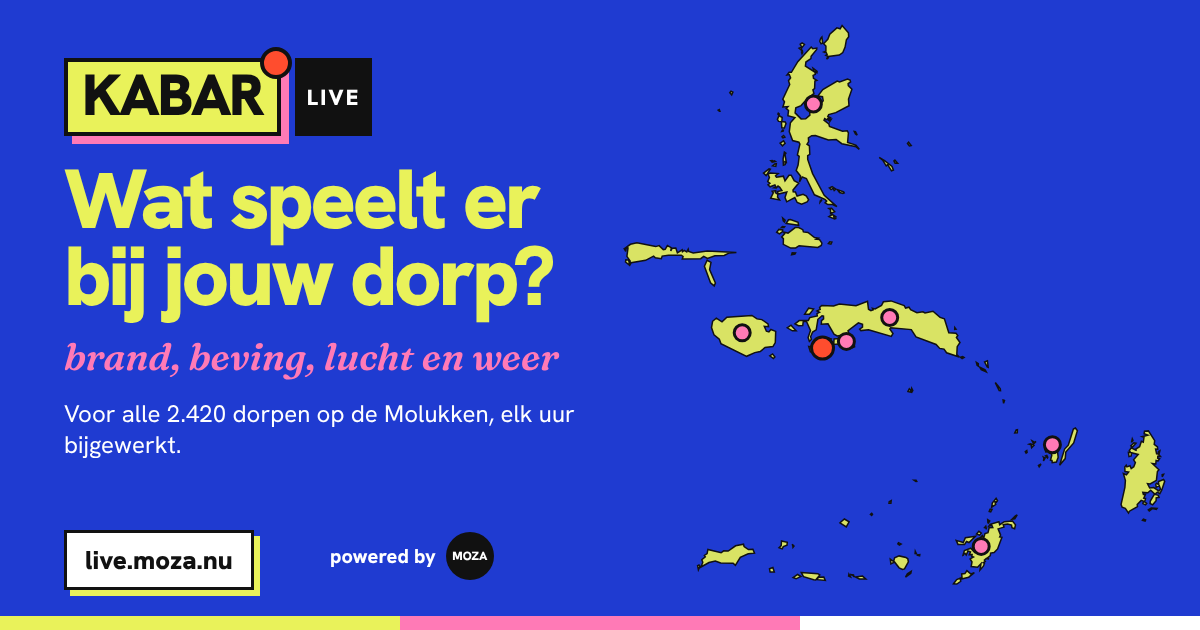
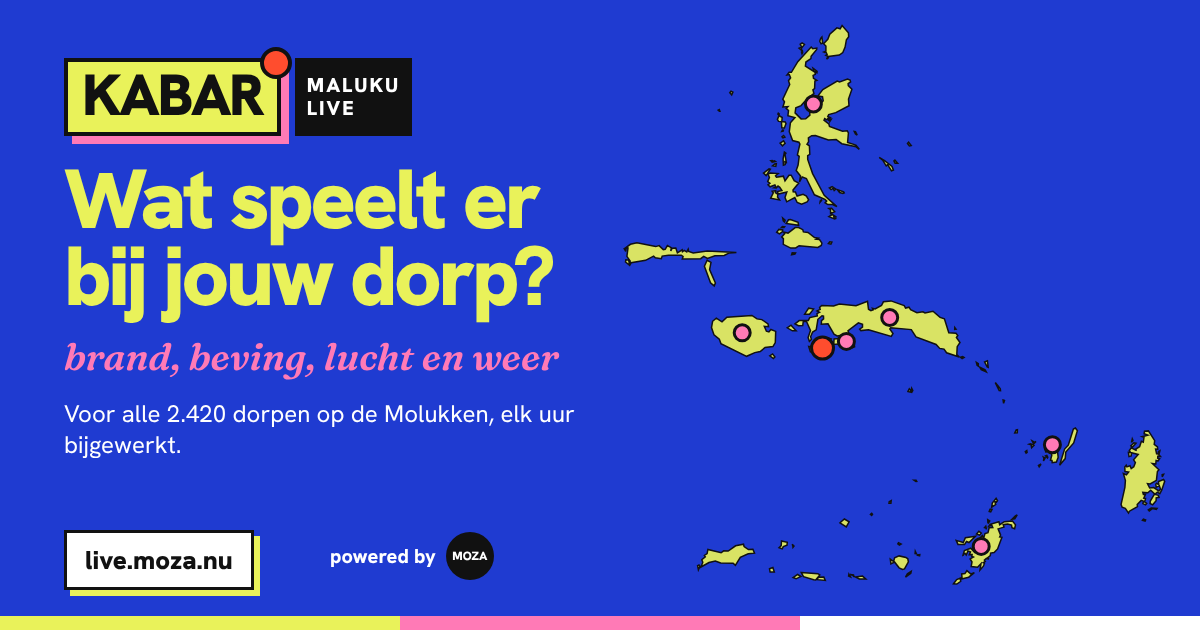
Naam wordt Kabar Maluku Live
Claude-Session: https://claude.ai/code/session_01QfAXNcrF4TZuJAZGuuJHpj

Changed region(s): [[0.2467, 0.0905, 0.37, 0.2413]]

diff --git a/dorp/static/dorp.css b/dorp/static/dorp.css
@@ -86,7 +86,7 @@ h2{margin:0;font-size:26px;line-height:1.15;font-weight:900;letter-spacing:-.02e
 .merk{display:flex;align-items:stretch;text-decoration:none}
 .merk .kb{position:relative;padding:3px 9px 5px;background:var(--geel);border:2px solid #111;box-shadow:3px 3px 0 var(--blauw);font-size:22px;line-height:1;font-weight:900;letter-spacing:-.04em;color:#111}
 .merk .kb i{position:absolute;top:-7px;right:-7px;width:12px;height:12px;border-radius:50%;background:var(--rood);border:2px solid #111}
-.merk .lv{display:inline-flex;align-items:center;margin-left:7px;padding:0 7px;background:#111;color:#fff;font-size:11px;font-weight:900;letter-spacing:.1em}
+.merk .lv{display:inline-flex;align-items:center;margin-left:7px;padding:2px 7px;background:#111;color:#fff;font-size:10px;line-height:1.15;font-weight:900;letter-spacing:.1em}
 @media (prefers-color-scheme:dark){.merk .kb{border-color:#ECECF1}.merk .lv{background:#ECECF1;color:#111}}
 .voet .pw{display:flex;align-items:center;gap:10px;font-weight:800}
 .voet .mz{width:40px;height:40px;border-radius:50%;background:#fff;color:#111!important;display:inline-flex;align-items:center;justify-content:center;font-size:10px;font-weight:900;text-decoration:none;letter-spacing:-.02em}

diff --git a/dorp/bouw.py b/dorp/bouw.py
@@ -351,7 +351,7 @@ def pagina(titel, omschrijving, pad, body, extra_head=''):
 <meta property="og:title" content="{e(titel)}">
 <meta property="og:description" content="{e(omschrijving)}">
 <meta property="og:url" content="{SITE}{pad}">
-<meta property="og:site_name" content="Kabar Live">
+<meta property="og:site_name" content="Kabar Maluku Live">
 <meta property="og:type" content="website">
 <meta property="og:image" content="{SITE}/og.png">
 <meta property="og:image:width" content="1200"><meta property="og:image:height" content="630">
@@ -365,9 +365,9 @@ def pagina(titel, omschrijving, pad, body, extra_head=''):
 {extra_head}{PLAUSIBLE}
 </head>
 <body>
-<header class="kop"><a class="merk" href="/" aria-label="Kabar Live, naar de startpagina"><span class="kb">KABAR<i></i></span><span class="lv">LIVE</span></a><a class="knop" href="/">{ICON_ZOEK}Ander dorp</a></header>
+<header class="kop"><a class="merk" href="/" aria-label="Kabar Maluku Live, naar de startpagina"><span class="kb">KABAR<i></i></span><span class="lv">MALUKU<br>LIVE</span></a><a class="knop" href="/">{ICON_ZOEK}Ander dorp</a></header>
 {body}
-<footer class="voet"><div class="w"><p class="pw">Kabar Live, powered by <a class="mz" href="https://www.moza.nu" aria-label="MOZA">MOZA</a></p><p>Voor, door en met Molukkers. Bekijk ook <a href="https://www.moza.nu/kaarten">alle kaarten</a> en <a href="https://www.moza.nu/lezen">het laatste nieuws</a> op moza.nu.</p>
+<footer class="voet"><div class="w"><p class="pw">Kabar Maluku Live, powered by <a class="mz" href="https://www.moza.nu" aria-label="MOZA">MOZA</a></p><p>Voor, door en met Molukkers. Bekijk ook <a href="https://www.moza.nu/kaarten">alle kaarten</a> en <a href="https://www.moza.nu/lezen">het laatste nieuws</a> op moza.nu.</p>
 <p>Klopt er iets niet? <a href="https://www.moza.nu/contact">Laat het ons weten</a>.</p></div></footer>
 </body>
 </html>'''
@@ -450,7 +450,7 @@ def dorp_html(d, ctx, nu):
                f'<b>Zon onder {z0["onder"]:%H:%M}</b><small>in Nederland {nl(z0["onder"])}</small></span></div>')
     samen = samenvatting(d, br, bv, wr, lu, nu)
     delen.append(f'''<section class="hero" aria-labelledby="h1"><div class="w">
-<p class="label live"><i></i>Kabar Live</p>
+<p class="label live"><i></i>Kabar Maluku Live</p>
 <h1 id="h1">{e(naam)}</h1>
 <p class="sub">{sub}</p>
 <div class="chips">{''.join(chips)}</div>{zon}
@@ -635,7 +635,7 @@ def dorp_html(d, ctx, nu):
 </section>''')
     delen.append('<main class="w">' + ''.join(m) + '</main>')
 
-    titel = f'{naam}: brand, weer en aardbevingen bij het dorp | Kabar Live'
+    titel = f'{naam}: brand, weer en aardbevingen bij het dorp | Kabar Maluku Live'
     import re
     omschrijving = re.sub(r'<[^>]+>', '', samen)[:155]
     ld = json.dumps({'@context': 'https://schema.org', '@type': 'Place', 'name': naam,
@@ -661,7 +661,7 @@ def eiland_html(g, lijst, nu, brandset):
 <p class="samen">{f'Deze week zag de satelliet brand bij <b>{nbrand} {"dorp" if nbrand == 1 else "dorpen"}</b>. Die zijn gemarkeerd met een rode stip.' if nbrand else 'Deze week zag de satelliet <b>geen brand</b> bij de dorpen hier.'}</p></div></section>
 <div class="streep"><span></span><span></span><span></span></div>
 <main class="w"><section><h2>Kies je dorp</h2>{blokken}</section></main>'''
-    return pagina(f'Dorpen in {D.GROEPEN[g]}: brand, weer en aardbevingen | Kabar Live',
+    return pagina(f'Dorpen in {D.GROEPEN[g]}: brand, weer en aardbevingen | Kabar Maluku Live',
                   f'Alle {len(lijst)} dorpen in {D.GROEPEN[g]} ({D.GROEP_SUB[g]}). Zie per dorp of er brand is, wat voor weer het wordt en of de aarde beefde.',
                   f'/eiland/{g}/', body)
 
@@ -674,7 +674,7 @@ def start_html(groepen, brandlijst, nu):
                  + ''.join(f'<a class="rij" href="/{d["slug"]}/"><b>{e(d["naam"])}<small>{e(d["kec"])} · {e(D.GROEPEN[d["groep"]])}</small></b><span class="badge">BRAND</span></a>' for d in brandlijst[:12])
                  + '</div></section>')
     body = f'''<section class="hero"><div class="w">
-<p class="label">Kabar Live · powered by MOZA</p><h1>Wat speelt er bij jouw dorp?</h1>
+<p class="label">Kabar Maluku Live · powered by MOZA</p><h1>Wat speelt er bij jouw dorp?</h1>
 <p class="accent">brand, beving, lucht en weer</p>
 <label for="q" style="margin-top:8px;font-size:14px;font-weight:800">Zoek je dorp of eiland</label>
 <div class="zoek">{ICON_ZOEK}<input id="q" type="search" autocomplete="off" placeholder="Bijvoorbeeld Ullath of Seram" aria-controls="res"></div>
@@ -698,7 +698,7 @@ var gs={json.dumps({g: n for g, n in D.GROEPEN.items()}, ensure_ascii=False)},kw
 var a=L.filter(function(x){{return x.k.indexOf(v)===0}}),b=L.filter(function(x){{return x.k.indexOf(v)>0}});var r=a.concat(b).slice(0,12);
 res.innerHTML=gh+r.map(function(x){{return '<a class="rij" href="/'+x.s+'/"><b>'+esc(x.n)+'<small>'+esc(x.c)+' · '+esc(x.g)+'</small></b>'+(x.b?'<span class="badge">BRAND</span>':'<span aria-hidden="true">→</span>')+'</a>'}}).join('')||'<p>Geen dorp gevonden. Probeer een andere schrijfwijze.</p>'}})}}
 q.addEventListener('input',show);if(q.value)show()}})();</script>'''
-    return pagina('Kabar Live: brand, weer en aardbevingen bij jouw dorp op de Molukken',
+    return pagina('Kabar Maluku Live: brand, weer en aardbevingen bij jouw dorp op de Molukken',
                   'Zoek je dorp op de Molukken en zie of er brand is, of de lucht gezond is, wat voor weer het wordt en of de aarde beefde. Voor alle 2.420 dorpen.',
                   '/', body)
 
@@ -824,7 +824,7 @@ def main():
     shutil.copy(HIER / 'static' / 'favicon.svg', uit / 'favicon.svg')
     (uit / 'CNAME').write_text('live.moza.nu\n')
     (uit / 'robots.txt').write_text(f'User-agent: *\nAllow: /\nSitemap: {SITE}/sitemap.xml\n')
-    (uit / '404.html').write_text(pagina('Niet gevonden | Kabar Live', 'Deze pagina bestaat niet.', '/404.html',
+    (uit / '404.html').write_text(pagina('Niet gevonden | Kabar Maluku Live', 'Deze pagina bestaat niet.', '/404.html',
                                          '<main class="w"><section><h2>Dit dorp vinden we niet</h2><p><a href="/">Zoek je dorp →</a></p></section></main>'))
     dag = nu.strftime('%Y-%m-%d')
     urls = [f'{SITE}/'] + [f'{SITE}/eiland/{g}/' for g in D.GROEPEN] + [f'{SITE}/{d["slug"]}/' for d in rows]
